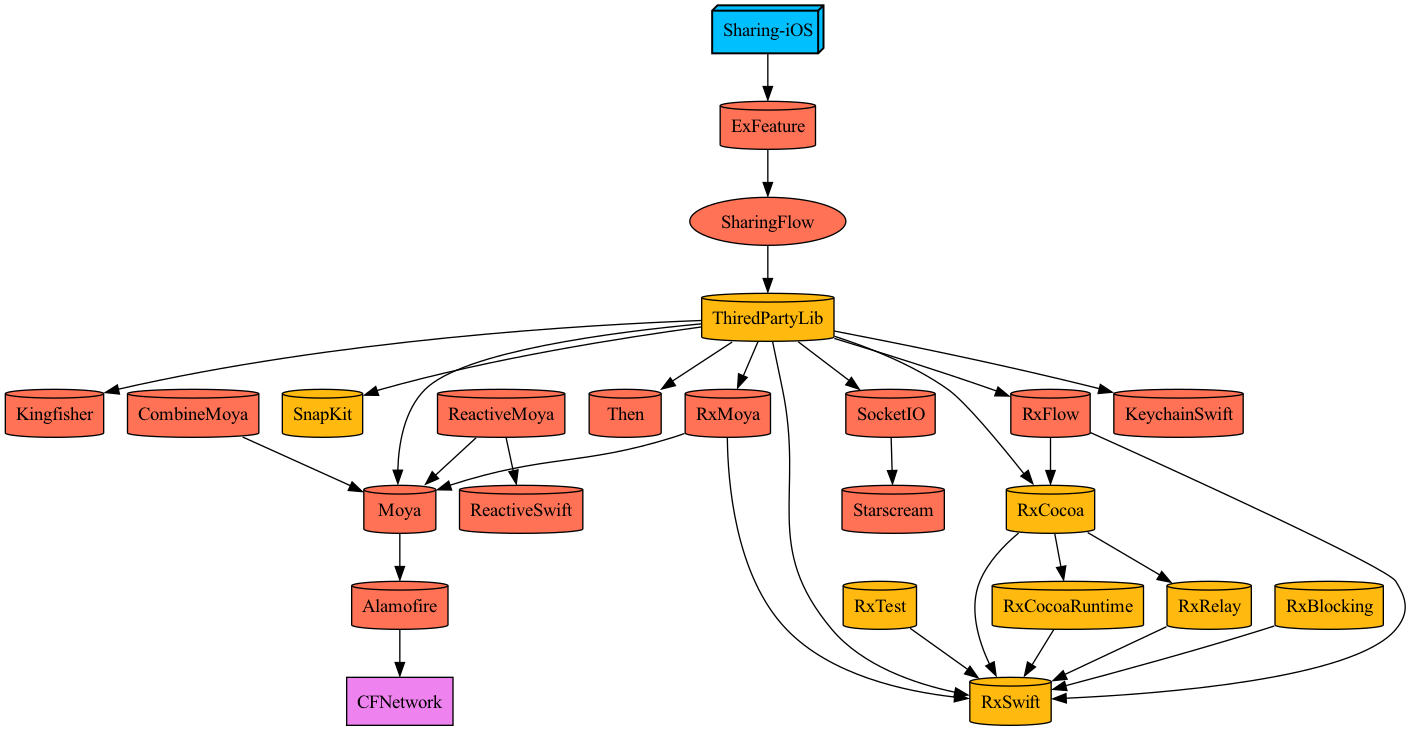
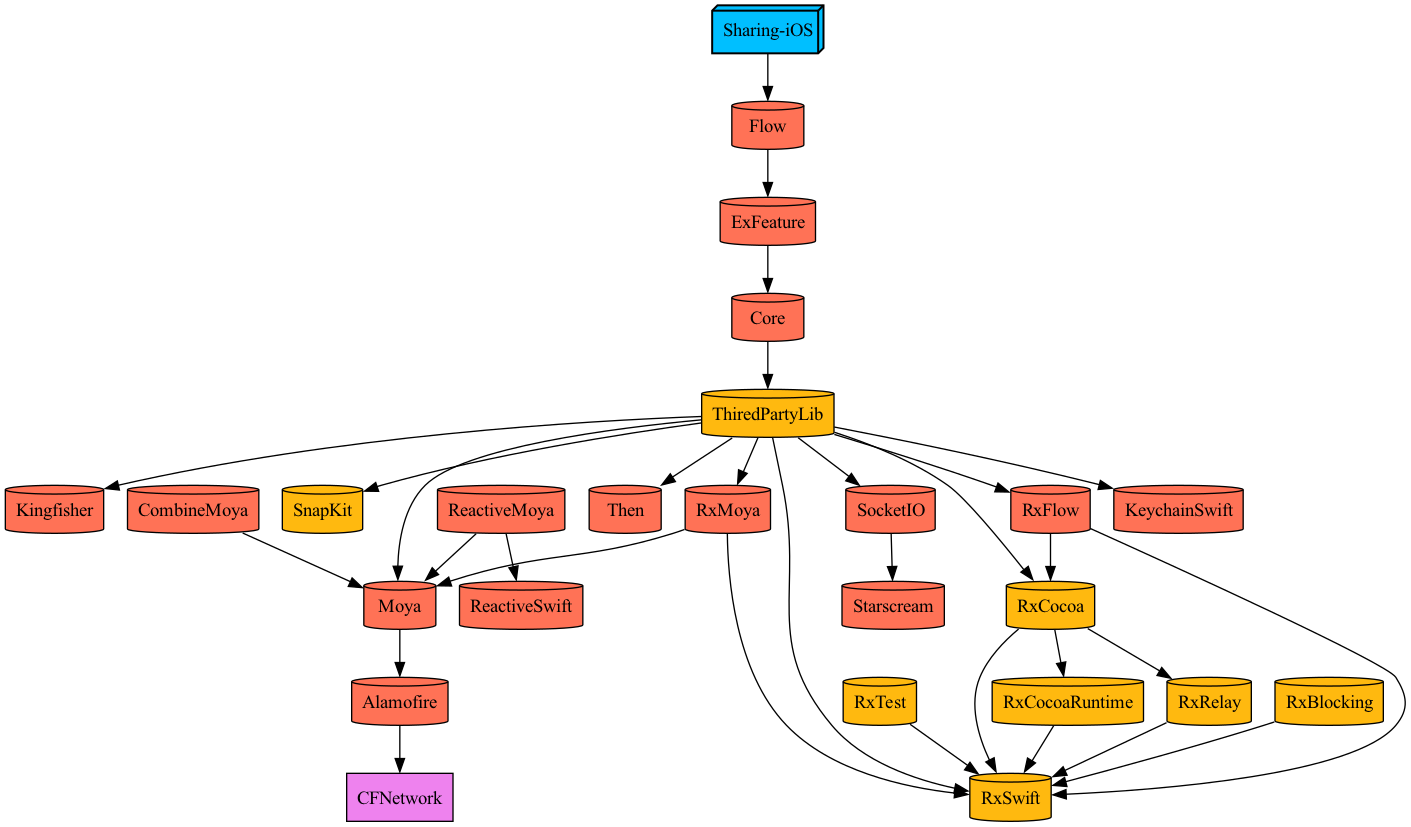
🎨 :: tuist 모듈화

diff --git a/Flow/Sources/TabFlow/TabFlow.swift b/Flow/Sources/TabFlow/TabFlow.swift
@@ -1,15 +1,22 @@
 import UIKit
 import RxFlow
+import Core
 import RxCocoa
 
-class TabsFlow: Flow {
-    var root: RxFlow.Presentable {
+public class TabsFlow: Flow {
+    public init() {}
+
+    public var root: RxFlow.Presentable {
         return rootPresentable
     }
 
-    private lazy var rootPresentable = UINavigationController()
+    private lazy var rootPresentable =  {
+        let tabBarController = UITabBarController()
+        tabBarController.tabBar.backgroundColor = .white
+        return tabBarController
+    }()
 
-    func navigate(to step: RxFlow.Step) -> RxFlow.FlowContributors {
+    public func navigate(to step: RxFlow.Step) -> RxFlow.FlowContributors {
         guard let step = step as? SharingStep else { return .none }
         switch step {
         case .exRequired:
@@ -28,7 +35,7 @@ class TabsFlow: Flow {
         }
         return .one(flowContributor: .contribute(
             withNextPresentable: exFlow,
-            withNextStepper: OneStepper(withSingleStep: SharingStep.exRequired)
+            withNextStepper: OneStepper(withSingleStep: SharingStep.tabsRequired)
         ))
     }
 }

diff --git a/Plugins/DependencyHelper/ProjectDescriptionHelpers/Dependency+Project.swift b/Plugins/DependencyHelper/ProjectDescriptionHelpers/Dependency+Project.swift
@@ -4,17 +4,28 @@ public extension TargetDependency {
     struct Module {}
     struct Feature {}
     struct Core {}
+    struct Flow {}
+}
+
+public extension TargetDependency.Flow {
+    static let flow = TargetDependency.project(
+        target: "Flow",
+        path: .relativeToRoot("Flow")
+    )
+
+    static func flow(name: String) -> TargetDependency {
+        return .project(
+            target: name,
+            path: .relativeToRoot("Flow/\(name)")
+        )
+    }
 }
 
 public extension TargetDependency.Core {
-    static let sharingFlow = core(name: "SharingFlow")
-
-    static func core(name: String) -> TargetDependency {
-        return .project(
-            target: name,
-            path: .relativeToRoot("Core/\(name)")
-        )
-    }
+    static let core = TargetDependency.project(
+        target: "Core",
+        path: .relativeToRoot("Core")
+    )
 }
 
 public extension TargetDependency.Feature {

diff --git a/Application/Sources/Application/SceneDelegate.swift b/Application/Sources/Application/SceneDelegate.swift
@@ -1,5 +1,7 @@
 import UIKit
 import RxFlow
+import Core
+import Flow
 
 class SceneDelegate: UIResponder, UIWindowSceneDelegate {
 
@@ -9,8 +11,15 @@ class SceneDelegate: UIResponder, UIWindowSceneDelegate {
     func scene(_ scene: UIScene, willConnectTo session: UISceneSession, options connectionOptions: UIScene.ConnectionOptions) {
         guard let windowScene = (scene as? UIWindowScene) else { return }
         window = UIWindow(windowScene: windowScene)
-
-        window?.rootViewController = ExViewController()
+        let tabsFlow = TabsFlow()
+        Flows.use(tabsFlow, when: .created) { [weak self] root in
+            self?.window?.rootViewController = root
+        }
+        coordinater.coordinate(
+            flow: tabsFlow,
+            with: OneStepper(withSingleStep: SharingStep.exRequired),
+            allowStepWhenDismissed: false
+        )
         window?.makeKeyAndVisible()
     }
 

diff --git a/Flow/Sources/ExFlow/ExFlow.swift b/Flow/Sources/ExFlow/ExFlow.swift
@@ -1,13 +1,17 @@
 import UIKit
+import ExFeature
 import RxFlow
+import Core
 import RxCocoa
 
 class ExFlow: Flow {
+    public init() {}
+
     var root: RxFlow.Presentable {
         return rootPresentable
     }
 
-    private lazy var rootPresentable = UITabBarController()
+    private lazy var rootPresentable = UINavigationController()
 
     func navigate(to step: RxFlow.Step) -> RxFlow.FlowContributors {
         guard let step = step as? SharingStep else { return .none }
@@ -20,7 +24,9 @@ class ExFlow: Flow {
     }
 
     private func navigateToExView() -> FlowContributors {
+        print("dsfaafasdf")
+        let exViewController = ExViewController()
+        rootPresentable.pushViewController(exViewController, animated: false)
         return .none
     }
 }
-

diff --git a/Features/ExFeature/Sources/ExViewController.swift b/Features/ExFeature/Sources/ExViewController.swift
@@ -2,19 +2,19 @@ import UIKit
 import SnapKit
 import Then
 
-class ExViewController: UIViewController {
+public class ExViewController: UIViewController {
 
     private let textLable = UITextView().then {
         $0.text = "ExView"
     }
 
-    override func viewDidLoad() {
+    public override func viewDidLoad() {
         super.viewDidLoad()
 
         self.view.backgroundColor = .blue
     }
 
-    override func viewWillLayoutSubviews() {
+    public override func viewWillLayoutSubviews() {
         view.addSubview(textLable)
         textLable.snp.makeConstraints {
             $0.center.equalToSuperview()

diff --git a/Flow/Project.swift b/Flow/Project.swift
@@ -3,10 +3,10 @@ import ProjectDescriptionHelpers
 import DependencyHelper
 
 let project = Project.makeModule(
-    name: "SharingFlow",
+    name: "Flow",
     platform: .iOS,
-    product: .staticLibrary,
+    product: .staticFramework,
     dependencies: [
-        .Module.thiredPartyLib
+        .Feature.exFeature
     ]
 )

diff --git a/Core/Project.swift b/Core/Project.swift
@@ -3,11 +3,10 @@ import ProjectDescriptionHelpers
 import DependencyHelper
 
 let project = Project.makeModule(
-    name: "ExFeature",
-    resources: ["Resources/**"],
+    name: "Core",
     platform: .iOS,
     product: .staticFramework,
     dependencies: [
-        .Core.core
+        .Module.thiredPartyLib
     ]
 )

diff --git a/Application/Project.swift b/Application/Project.swift
@@ -19,7 +19,7 @@ let project = Project(
             sources: ["Sources/**"],
             resources: ["Resources/**"],
             dependencies: [
-                .Feature.exFeature
+                .Flow.flow
             ]
         )
     ]

diff --git a/Workspace.swift b/Workspace.swift
@@ -6,6 +6,7 @@ let workspace = Workspace(
         "Application",
         "Modules/**",
         "Features/**",
+        "Flow",
         "Core"
     ]
 )
